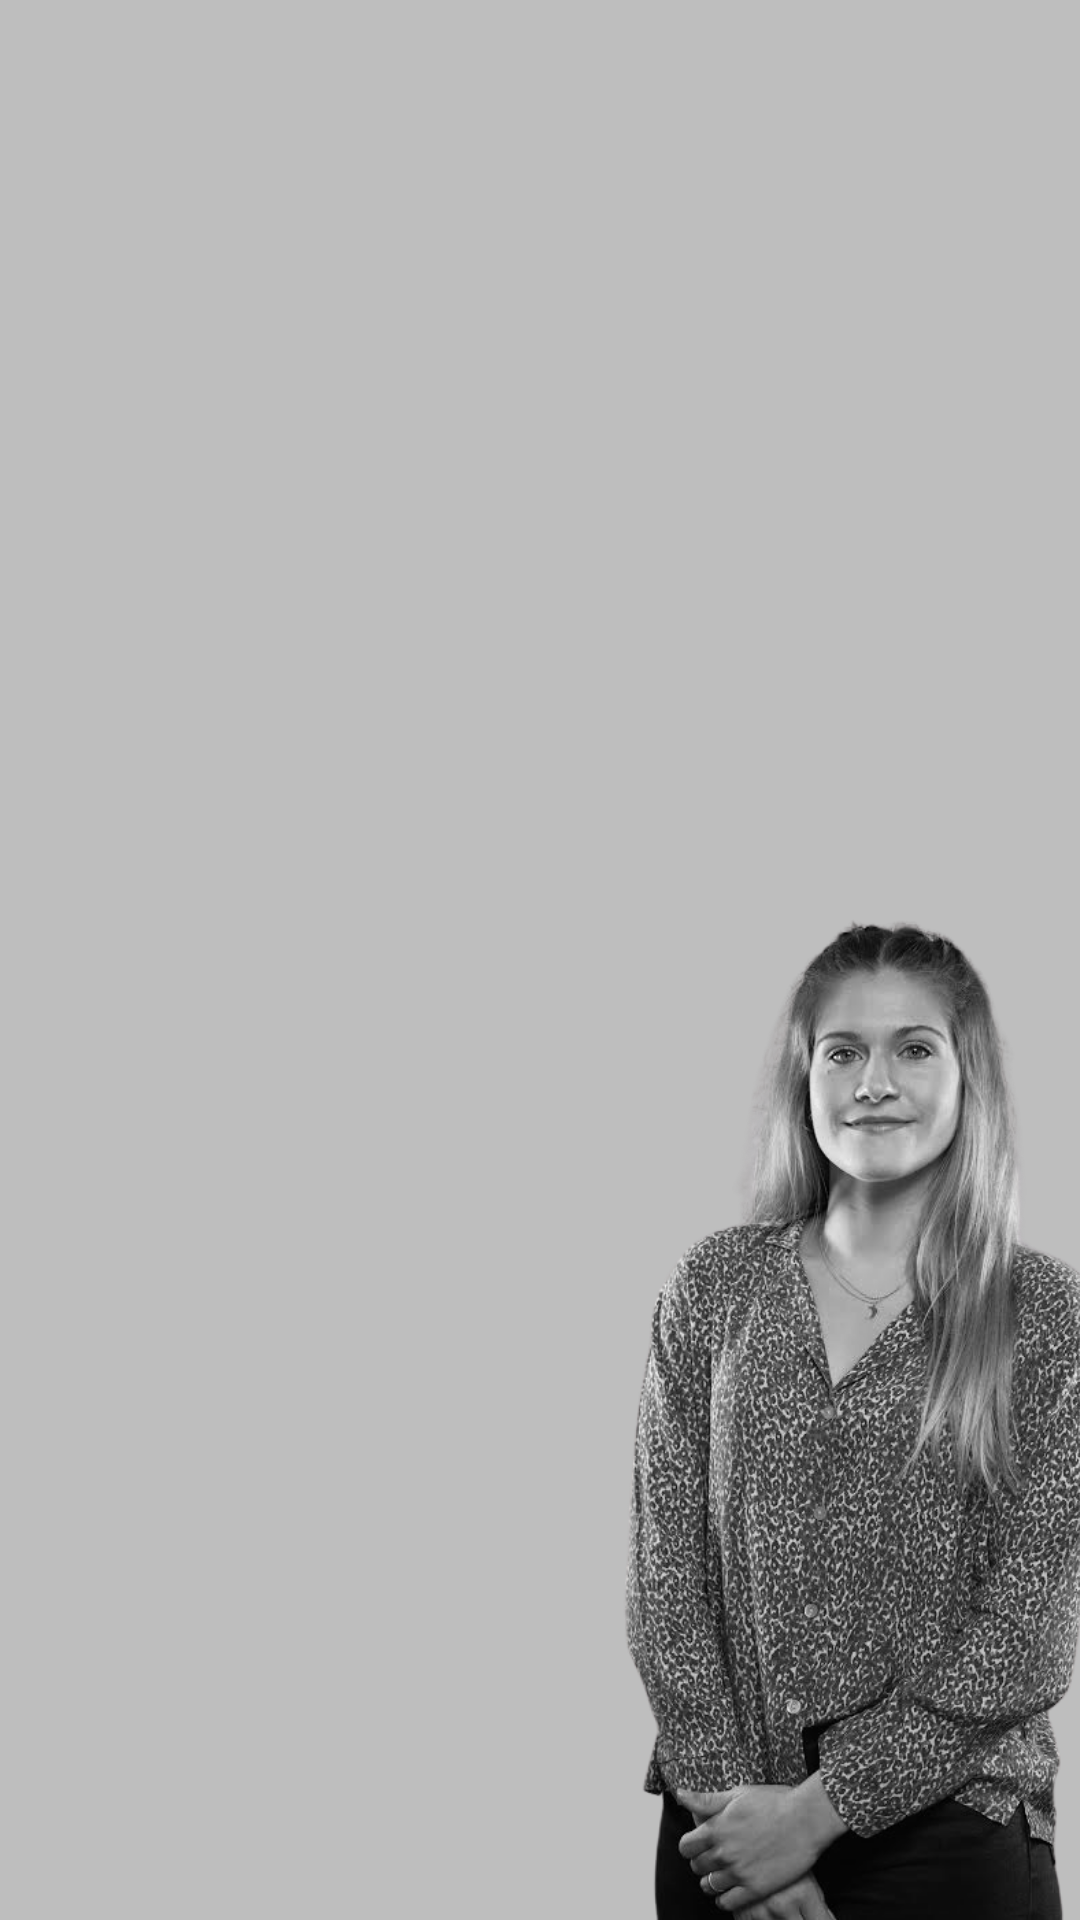
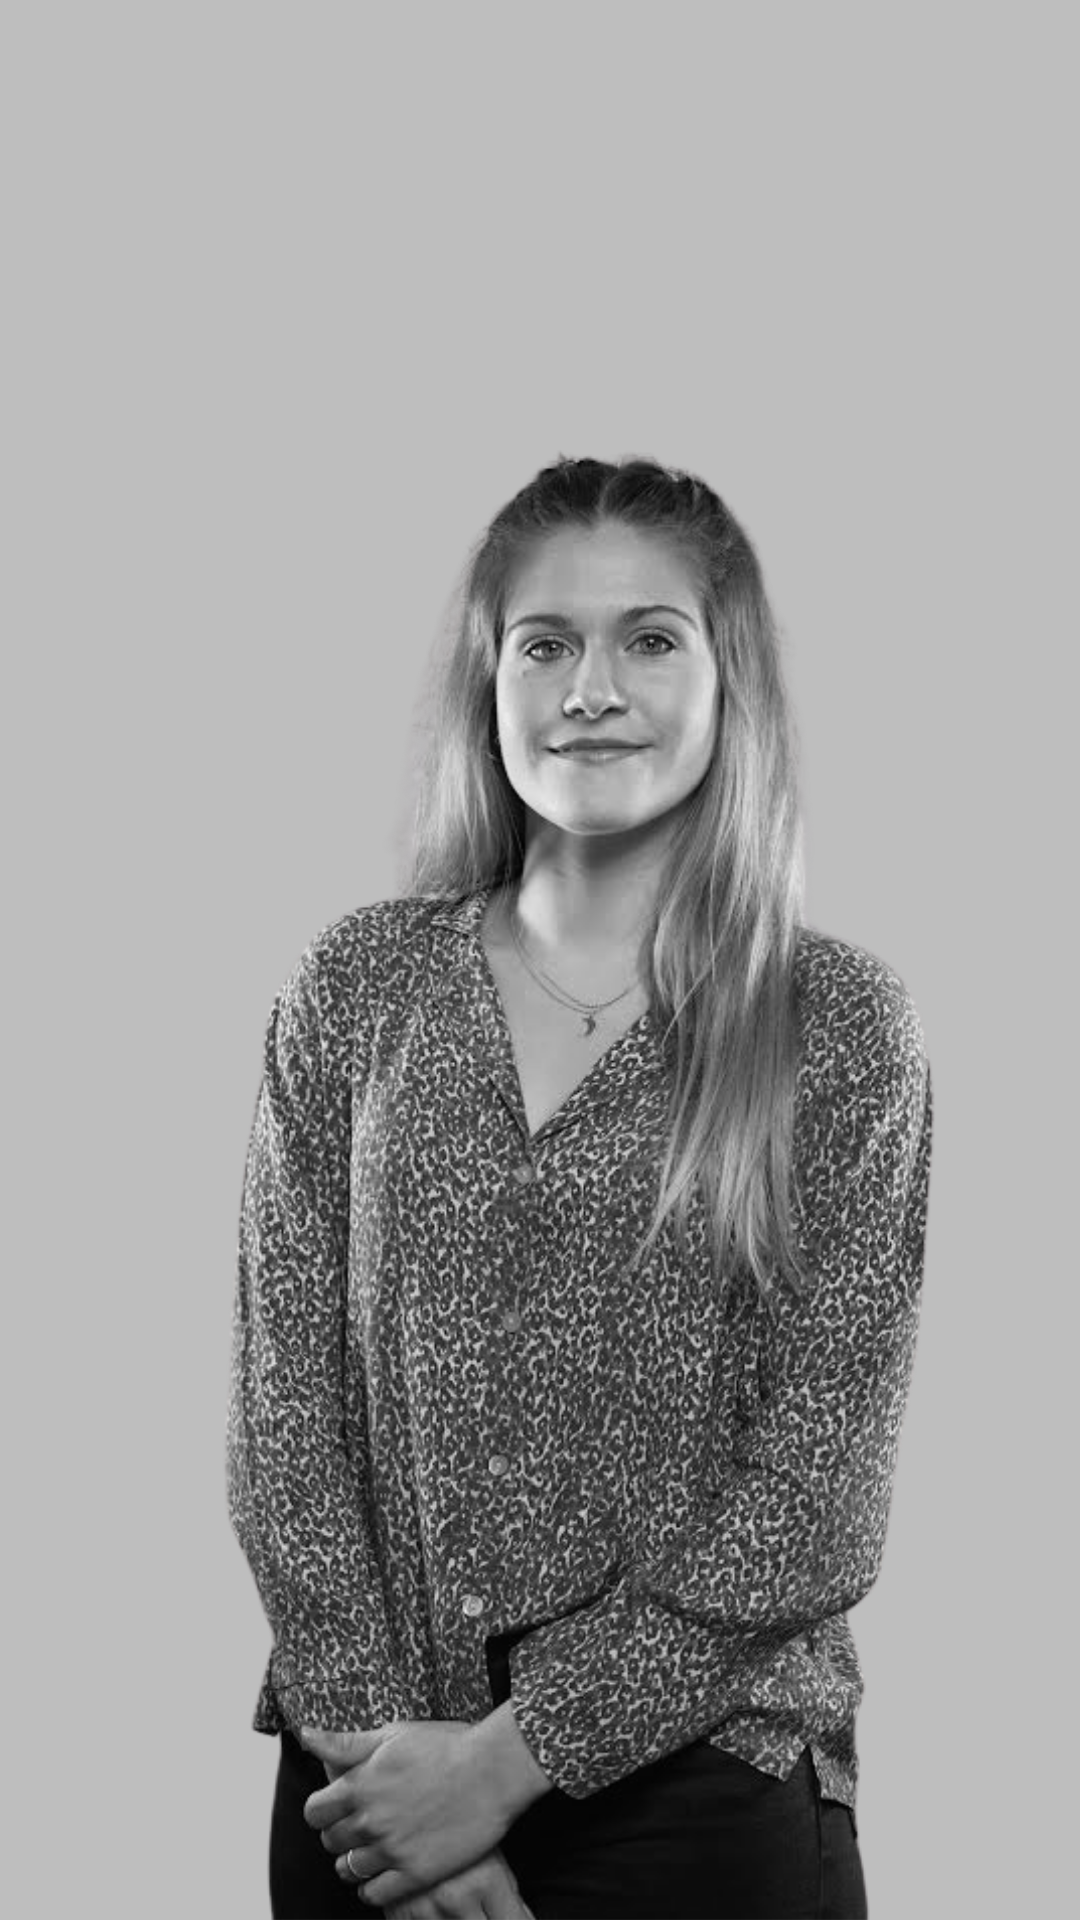
s

diff --git a/style.css b/style.css
@@ -21,6 +21,7 @@ width: 70%;}
     background-size: contain;
     background-repeat: no-repeat;
     position: relative;
+    margin-bottom: -100px;
 }
 @media (max-width: 600px min-width:300px){
     .foto {
@@ -68,6 +69,7 @@ width: 70%;}
     right: 0;
     top: 50%;
     right: 30px;  
+    z-index: 999;
 }
 
 /*2o DIV - SOBRE MI*/
@@ -76,6 +78,10 @@ width: 70%;}
 }
 
 /*H1 SOBRE MÍ*/
+.row{
+    margin-right: 0px !important;
+    margin-left: 0px !important;
+}
 .sobre-mi{
     width: fit-content;
     border-bottom: 5px solid #a5cd07;
@@ -86,6 +92,13 @@ width: 70%;}
     padding-bottom: 10px;  
     font-family: 'Lexend Zetta', sans-serif;
     letter-spacing: -2px;
+}
+.silueta{
+    background-image: url(img/silueta.png);
+    width: 100%;
+    position: relative;
+    background-size: cover;
+    height: 525px;
 }
 
 /*PARRAFOS SOBRE MÍ*/
@@ -183,12 +196,9 @@ width: 70%;}
 
 
 
-.titulares{
-    font-family: 'Lexend Zetta', sans-serif;
-    letter-spacing: -2px;
-}
 
-p, .form-group, .parrafo-propositos{
+
+p, .form-group, .parrafo-propositos,#contacto-parrafo{
     font-family: 'Poppins', sans-serif;
 }
 
@@ -251,6 +261,21 @@ p, .form-group, .parrafo-propositos{
 
 
 /*DIV 6 - CONTACTO*/
+
+#contacto-titular{
+    font-family: 'Lexend Zetta', sans-serif;
+    letter-spacing: -2px;
+
+}
+ @media screen and(max-width:600px){
+     .col-4{
+         padding: inherit;
+     }   }
+ @media screen and (max-width:600px){
+    .col-8{
+        padding: inherit;
+    }}
+   
 #formulario{
     padding-top: 60px;
     padding-bottom: 60px;

diff --git a/index.html b/index.html
@@ -96,8 +96,8 @@
                     </p>
                 </div>
                 <div class="col-md-3 col-12">
-                    <img src="img/silueta buena.jpg" alt="" height="300px">
-
+                   <div class="silueta"
+                </div>
                 </div>
             </div>
            
@@ -278,8 +278,8 @@
                 <div class="row">
                     <div class="col-4">
                         <div id="contactame">
-                            <h1>CONTACTO</h1>
-                            <p>Ahora te toca a ti, ¿hablamos?</p>
+                            <p id="contacto-titular">CONTACTO</p>
+                            <p id="contacto-parrafo">Ahora te toca a ti, ¿hablamos?</p>
                         </div>
                     </div>
                     <div class="col-8">
@@ -287,7 +287,7 @@
                             <div class="row">
                                 <div class="col-6">
                                     <div class="form-group">
-                                        <label for="nombre">Nombre</label>
+                                        <label for="nombre"> Nombre</label>
                                         <input type="text" id="nombre"  >
                                     </div>
                                 </div>
